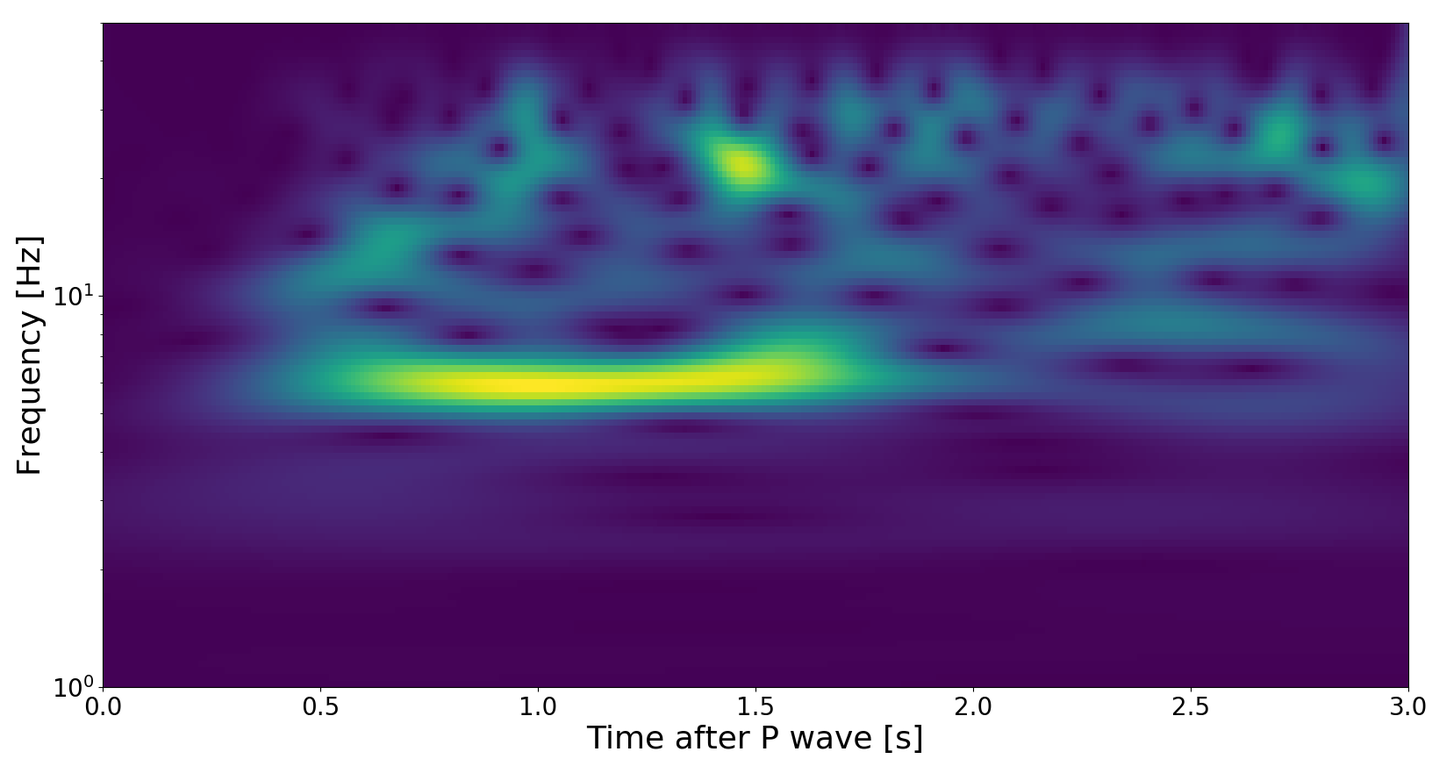
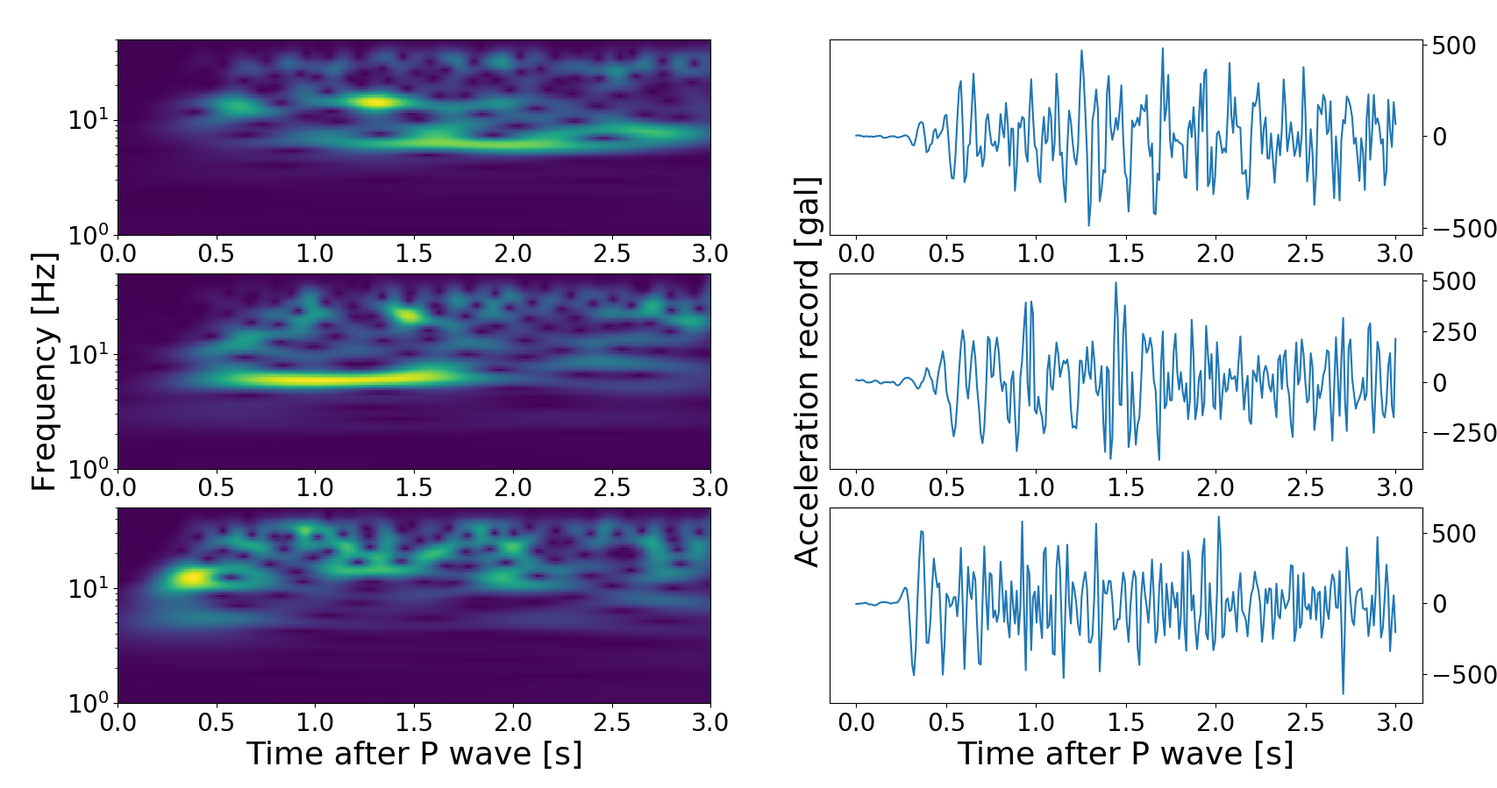
Updates from Overleaf

diff --git a/chap/chap3.tex b/chap/chap3.tex
@@ -6,10 +6,10 @@
 \indent 随着大数据时代到来，现代生产建设中设备不断电子化使得数据量呈指数增长，同时电子计算机硬件性能不断突破、计算能力不断提高,这些变化都给人工智能领域快速发展提供了优渥的土壤。例如具体到人工智能中的深度学习算法，过去受限于数据量和计算能力导致应用范围有限进展缓慢，而目前随着各领域大数据的帮助和图形处理器的广泛使用已经开始应用于各个各行各业。相比传统的统计学习方法，机器学习类方法的设计更加复杂多样，原理上提供了无需手动进行特征工程而是通过模型深层结构的学习到数据内在规律的可能性。\\
 \indent 在过去90年代中，止人工智能与地球物理学的联合交叉应用仍处于起步阶段。很多学者对于机器学习算法拾取P波初至的问题进行了深入的探索（Murat et al., 1993；D.McCormack et al., 1993;）， 但受限于当时算法和数据的局限大部分研究都处于尝试阶段。随着宽频带地震仪的普及与全球各地高密度台网的出现，台站地震数据数量和质量双双大幅提升，地球物理学领域的人工智能方法不断前进获得井喷式的发展。CNN模型在地下结构反演方向得到优秀的应用（Das et al., 1993)，而端到端训练的CNN、DnCNN模型在地震数据的噪音压制方面的优势也不断被挖掘（王钰清等， 2019），例如在数据增广插值（Wang et al., 1993)、微地震识别和地震事件检测（John et al., 2018)等地球物理与人工智能交叉应用的其他方向也有长足发展。\\
 \section{神经网络类算法}
-\indent 考虑到特征频率和特征幅值两类算法的局限性，本文首先选取了机器学习中神经网络类算法进行对传统方法进行改进。神经元是构成神经网络最基础的单元，它的结构可抽象成如下图1所示的简单数学模型 (McCulloch and Pitts, 1943），即“M-P神经元模型”。在这个模型中，一个神经元接收到来自n个其他神经元传递过来的输入信号$\mathrm{X}_{\mathrm{i}}$，这些输入信号通过带权重$\mathrm{w}_{\mathrm{i}}$的连接方式进行传递，并将神经元接收到的总输入值$\sum_{i=1}^{n} W_{i} x_{i}$将与神经元的阀值θ进行比较，然后通过“激活函数”处理以产生神经元的输出，这样就完成一个神经元的运算过程。把许多个这样的神经元按一定的层次结构连接起来，就得到各种结构的神经网络。\\
+\indent 考虑到特征频率和特征幅值两类算法的局限性，本文首先选取了机器学习中神经网络类算法进行对传统方法进行改进。神经元是构成神经网络最基础的单元，它的结构可抽象成如下图3.1所示的简单数学模型 (McCulloch and Pitts, 1943），即“M-P神经元模型”。在这个模型中，一个神经元接收到来自n个其他神经元传递过来的输入信号$\mathrm{X}_{\mathrm{i}}$，这些输入信号通过带权重$\mathrm{w}_{\mathrm{i}}$的连接方式进行传递，并将神经元接收到的总输入值$\sum_{i=1}^{n} W_{i} x_{i}$将与神经元的阀值θ进行比较，然后通过“激活函数”处理以产生神经元的输出，这样就完成一个神经元的运算过程。把许多个这样的神经元按一定的层次结构连接起来，就得到各种结构的神经网络。\\
 \begin{figure}[!h] 
 \centering 
- \includegraphics[width=0.75\linewidth]{img/mp.eps} 
+ \includegraphics[width=0.85\linewidth]{img/mp.eps} 
  \renewcommand{\figurename}{图} 
 \caption{M-P神经元模型示意图} 
 %英文标题begin 
@@ -40,7 +40,7 @@ $\mathrm{L}_{1}$、$\mathrm{L}_{2}$范数的进行正则约束以防止过拟合
 \begin{equation}
 \sigma(x)=\max (0, x)
 \end{equation}
-其中下角标C,$C^{\prime}$代表了输出层和输入层，上角标i代表第i个隐藏层。激活函数使用(3.4)式中所示的以0为分界的分段函数ReLU(Alex et al., 2012)。当此激活函数接收到前一隐层小于0的输入时输出0，而当接收到大于0的隐藏层输入时不做处理直接作为输出。NN模型以特征频率类方法的思想为基础，但区别于$\tau_{\mathrm{C}}$方法只使用垂直分量的信息，此NN神经网络的使用台站记录的全三分量信息，以期望得到不同分量联合与破裂规模的内在关系。\\
+其中下角标$C$,$C^{\prime}$代表了输出层和输入层，上角标i代表第i个隐藏层。激活函数使用(3.4)式中所示的以0为分界的分段函数ReLU(Alex et al., 2012)。当此激活函数接收到前一隐层小于0的输入时输出0，而当接收到大于0的隐藏层输入时不做处理直接作为输出。NN模型以特征频率类方法的思想为基础，但区别于$\tau_{\mathrm{C}}$方法只使用垂直分量的信息，此NN神经网络的使用台站记录的全三分量信息，以期望得到不同分量联合与破裂规模的内在关系。\\
 \indent 将3s时窗内的三分量傅里叶变换下的频谱信息并列为一维向量作为模型输入，直接将预估的震级结果设计为模型输出。整个NN模型共有7层神经网络，除去首尾的输入、输出层外共设置5个隐藏层以增强网络的非线性表达能力。根据Hinton(2012a,2012b)和Alex(2012)等人对于机器学习算法过拟合和避免网络陷入局部最优的相关研究，我们在第1和第3隐层后连接Dropout层以防止过拟合，同时加快有效训练速率。\\
 \begin{figure}[!h] 
 \centering 
@@ -59,50 +59,69 @@ $\mathrm{L}_{1}$、$\mathrm{L}_{2}$范数的进行正则约束以防止过拟合
 \subsection{CNN模型的设计}
 \indent 卷积神经网络(Convolutional Neural Networks)模型（Fukushima K,1979）是一类包含卷积计算且具有深度结构的前馈神经网络,在图像识别、语音识别等诸多领域有着非常广泛应用的深度学习模型。以常见的卷积神经网络应用场景中数据的结构和特征来看，无论是单通道的音频信息、时频信号还是图像处理问题中三通道RGB图像输入都与地震台站三分量地震波形数据有着很大的相似性。这些问题上的相似性使得CNN网络结构在处理地球物理学问题上有着得天独厚的优势，本文研究模型以图像分类中常用的LeNet-5 模型（LeCun Y et al.,1998）为基础框架，并根据Masaru(2019)等人关于地震问题特性进行SRSpec-CNN模型的相关研究 ，设计出针对三分量地震波形数据特点的震级紧急预估结构。\\
 \indent 在传统方法和上节中所提到的NN方法都没有利用到台站信息时序的特点。例如以$\mathbf{\tau}_{\mathrm{c}}$为核心的震级预估算法是直接利用截断时间内频率域特点，并没有利用到台站记录数据中所拥有的P波时间结构特征。3.2.1节所描述的NN方法也只是利用神经网络算法所拥有的强大表达能力，从频率域数据中挖掘出更多描述能量的特征用以进行震级预估。而本章节所设计的CNN震级预估模型中输入信息为如图3.3所示的拥有时间结构小波信号，这就提供了利用P波时间结构特点的可能性。\\
-\indent 小波变换是20世纪80年代由石油信号处理工程师J.Morlet提出并发展起来的一种变换分析的新方法（J.Morlet et al., 1983，1984，1985）。小波变换作为时频变换方法，在短时傅里叶变化（Short-time Fourier Transform,STFT）的基础上更多体现出能良好时频局部化特性。在此之前的时频分析领域最为主流的短时傅里叶变换，主体思想为将整个时间域过程分解成在时间上等长的多个小过程分段进行傅里叶变换，并假设这些短过程间的信号是平稳并且相似的。但真实世界中的很多信号都是非平稳的，例如地震台站所记录到的地震波信号
-此拥有不同时间的不同特征。方法提出以来
-具更是有可以同时在时间域和频率域分析的特点，在地震数据处理中有着重
-要的应用，近年来也已经被应用于震相拾取工作中（Chakraborty A, Okaya D. ,1995；
-刘希强, 周蕙兰, 沈萍,等, 2000）。
+\indent 小波变换是20世纪80年代由石油信号处理工程师J.Morlet提出并发展起来的一种变换分析的新方法（J.Morlet et al., 1983，1984，1985）。小波变换作为时频变换方法，在短时傅里叶变化（Short-time Fourier Transform,STFT）的基础上更多体现出能良好时频局部化特性。在此之前的时频分析领域最为主流的短时傅里叶变换，主体思想是将整个时间域过程分解成在时间上等长的多个小过程分段进行傅里叶变换，这些操作的基础假设为这些短过程间的信号是平稳并且相似的。短时傅里叶变换面临着离散出的小过程时窗过窄则频率分辨率不足，时窗过宽则时间分辨率不足的窘境，它不能随着所分析的信号是高频或低频信息的而相应变换。\\
+\indent 但事实上真实世界中的很多信号都是非平稳的，例如地震台站所记录到的地震波信号就在时序上变化剧烈，且在不同时段内拥有不同信号结构。在本问题的研究中希望使用100HZ台站在P波到时后的3秒数据进行震级预估，若使用简单的短时傅里叶变换会导致时间和频率分辨率都不足够。以上所描述的特征使得短时傅里叶变换不适用于处理地震信号，而为地球物理学领域而首次提出的小波方法，具有较好时频局部化特性良好的适配于地震数据的时频分析需求（Kristekov et al., 2006，2009）。\\
+\indent 小波变换可以分为连续小波变换（CWT）与离散小波变换（DWT）。因两种变换的特点不同，在实际应用中离散小波变换常用于降噪与数据压缩，而连续小波变换则更适合于信号特征的提取。故选取连续小波变换对台站记录的时域信号进行预处理（Kristekov et al., 2006）。在连续小波变换中，其自适应性体现在移动带的通滤波器的频率域窗口随着滤波器中心频率的增加而扩大。一个实信号s(t)的连续小波变换被定义为一个如（3.5）式所示卷积运算：\\
 \begin{equation}
-C W T_{(a, b)}\{s(t)\}=|a|^{-1 / 2} \int_{-\infty}^{\infty} s(t) \psi^{*}(t-b) / a d t
+C W T_{(a, b)}\{s(t)\}=\int_{-\infty}^{\infty} s(t) \frac{1}{\sqrt{a}} \Psi\left(\frac{t-b}{a}\right) d t
 \end{equation}
-
-
+其中t为时间，窗口函数$\psi_{a, b}(t)$为依赖参数a,b的小波基函数。而参数 a 和 b 分别为小波变换的伸缩因子和平移因子。考虑到平移因子和伸缩因子都是连续取值的，所以称对应的小波基函数族$\left\{\psi_{a, b}(t)\right\}$为连续小波基族。特殊的取Morlet小波基$\psi(t)=\pi^{-1 / 4} \exp \left(i \omega_{0} t\right) \exp \left(-t^{2} / 2\right)$。在此设置下，实信号s(t)的时频表示（TFR）被定义为如下的（3.6）式：\
+\begin{equation}
+W(t, f)=C W T_{(a, b)}\{s(t)\} ; \quad a=\omega_{0} / 2 \pi f,\quad  b=\tau
+\end{equation}
+\indent 根据Kristekov（2006）对于应用于地震数据的连续小波变换，将全数据集进行了小波变换预处理。将原本NN模型时间域的频率表示输入变为如3.3图左侧三子图所示的时频表示。每一个单独台站记录都转换为100*300*3的多维矩阵，可以看出时间域中没有直观区别的三分量记录在小波域上出现了明显的时序结构。这就使得在不使用更多台站、更多地震事件的情况下完成了数据增广和解析度提升，利用到了传统方法没用考虑到的时序结构特征用以预估震级大小。\\
 \begin{figure}[h] 
 \centering 
- \includegraphics[width=0.99\linewidth]{img/wavelet.jpg} 
+ \includegraphics[width=1.0\linewidth]{img/wavelet.jpg} 
  \renewcommand{\figurename}{图} 
-\caption{CNN深度神经网络输入信号：P波初到后三秒垂向小波时频谱图} 
+\caption{CNN深度神经网络输入信号：P波初到后3秒时间的台站三分量时域图与小波时频谱图} 
 %英文标题begin 
 \addtocounter{figure}{-1} \vspace{-5pt} 
 %\SetEnglishCaption 
 \renewcommand{\figurename}{Fig} 
-\caption{CNN deep neural network input signal: spectrum of the vertical wavelet when the P wave arrives for three seconds} 
+\caption{Station three-component time domain diagram and wavelet time spectrum diagram of 3 seconds after the first arrival of P wave} 
 \renewcommand{\figurename}{图} 
 %英文标题end 
 \label{fig:network-device-influence.png} 
 \end{figure}
-\indent CNN模型结构如图3所示，整体框架为CNN卷积神经网络。与NN模型相同，使用ReLU作为激活函数，使用全三分量信息，并仍以预估的震级结果作为模型输出。不同的是，CNN模型将3s时窗内的加速度记录处理为三维张量(tensor)作为模型输入，全网络共设置8层卷积层且无池化层设置。卷积层采取小卷积核进行卷积计算，同时采用2个步长的卷积时窗移动以帮助卷积核降采样。卷积隐藏层的运算方式见(10)式。在第8层卷积层后，将所有特征重排列与台站和震中经纬深度信息一同并列后，进行全连接运算输出。考虑到深度学习卓越的表达能力，$\mathbf{\tau}_{\mathrm{c}}$方法中傅里叶变换的预处理是很容易被卷积神经网络完成的，并且还会有更多其他的特征被卷积核提取。\\
-\indent 考虑到模型输入的信息量和CNN网络的表达能力，理论上此模型至少可达到$\mathbf{\tau}_{\mathrm{c}}$和$P_{d}$方法的效果。如图3所示，此模型与NN模型相比还引入了台站和震源的位置信息。并且不同于$P_{d}$方法中相对量震中距离的使用，引入台站和震源的坐标信息还在一定程度上可以帮助模型完成区域断层信息、地球介质模型记录，使模型作为区域震级预估方法有更出色的表现。此深度学习模型对原始输入信号进行逐层加工，从而把初始的、与输出目标之间联系不太密切的输入表示，转化成与输出联系更为密切的新表示方式，使得原本难以完成的任务成为可能（对比于NN模型频谱信息输入和最后输出间的映射）。\\
-\indent CNN模型端到端的模型设置导致其训练难度更大，也意味着就需要更多的训练数据，由于目前数据量不足暂时还未对CNN模型完成训练。\\
+\indent 以CNN模型为核心的震级预估模块工作流程如图3.4所示。因设计的只为震级预估模块，故暂时不考虑确认地震事件和地震事件定位模块。假定在已确认疑似地震并通过多台站定位出地震大致位置后。选取距离震中100Km以内全部台站记录，截取P波初到后3s内数据进行小波变换作为CNN模型输入进行单台站震级预估。最后使用多台站震级预估的算术平均结果作为整体模块震级预估的结果。\\
+\indent CNN模型的数据流和网络结构如图3.5所示，整体框架为卷积、池化间隔出现的神经网络。与3.2.1中NN模型相同，使用（3.4）式ReLU作为激活函数。输入输出端保持大体一致，使用台站全三分量信息小波变换后作为模型输入并仍以预估的震级结果作为模型输出。通过测试并参考John（2018）与Nakano（2019）等人关于卷积层卷积核大小的研究，决定在本问题中采取5*5的小卷积核进行卷积计算，同时采用2*2的步长移动的卷积时窗移动以帮助卷积核降采样。CNN模型卷积层的运算方式如(3.7)式所示，其中l代表隐藏层角标，j代表通道数，i代表在特征图（feature map）上的坐标。考虑到深度学习卓越的表达能力，$\mathbf{\tau}_{\mathrm{c}}$方法中傅里叶变换的预处理是很容易被卷积神经网络完成的，并且还会有更多例如不同分量间的关联的其他特征被卷积核提取以增加预估的准确性。\\
 \begin{figure}[h] 
 \centering 
- \includegraphics[width=0.99\linewidth]{img/CNN-paper.png} 
+ \includegraphics[width=1.0\linewidth]{img/Flow.jpg} 
  \renewcommand{\figurename}{图} 
-\caption{CNN深度神经网络结构示意图} 
+\caption{震级预估模块（CNN模型）工作流程图（以发生在日本地区39.32N,141.14E的4.6$\mathbf{M}_{\mathrm{w}}$地震为例）：第一步确认发生疑似地震，选取距震中100Km内的台站。第二步截取P波初到后3秒内三分量数据。第三步进行Morlet小波变换。第四步将台站时频表示输入到CNN模型中得到预估震级。} 
 %英文标题begin 
 \addtocounter{figure}{-1} \vspace{-5pt} 
 %\SetEnglishCaption 
 \renewcommand{\figurename}{Fig} 
-\caption{Schematic diagram of CNN deep neural network structure} 
+\caption{Workflow chart of the magnitude estimation module (CNN model) (take the 4.6$\mathbf{M}_{\mathrm{w}}$ earthquake in 39.32N, 141.14E in Japan as an example): The first step is to confirm the occurrence of a suspected earthquake, and select a station within 100Km from the epicenter. The second step intercepts the three-component data within 3 seconds after the first arrival of the P wave. The third step is to perform Morlet wavelet transform. The fourth step is to input the time-frequency representation of the station into the CNN model to obtain the estimated magnitude.} 
+\renewcommand{\figurename}{图} 
+%英文标题end 
+\label{fig:network-device-influence.png} 
+\end{figure}
+\begin{equation}
+\mathbf{Z}_{j}^{\ell}=\sigma\left(\sum_{i \in M_{j}} \mathbf{Z}_{i}^{\ell-1} * \mathbf{k}_{i j}^{\ell}+b_{j}^{\ell}\right)
+\end{equation}
+\indent 考虑到模型输入的信息量和CNN网络的表达能力，理论上此模型至少可达到$\mathbf{\tau}_{\mathrm{c}}$和$P_{d}$方法的效果。并且不同于$P_{d}$方法中相对量震中距离的使用，引入台站记录的三分量间的信息一定程度上可以帮助模型完成区域断层信息、地球介质模型记录，使模型作为区域震级预估方法有更出色的表现。此深度学习模型对小波变换输入信号进行逐层加工，从而把初始的、与输出目标之间联系不太密切的输入表示，转化成与输出联系更为密切的新表示方式，使得原本难以完成的任务成为可能（对比于NN模型频谱信息输入和最后输出间的映射）。\\
+\indent 因为本CNN模型震级预估模型的输入信息为三分量小波变换时频信息，这直接导致数据量整体扩大了2个数量级。造成了训练过程中对计算机缓存和显卡缓存的很高性能要求，以至于在本文研究中并不能够完全使用NN模型所使用的全数据集，大约使用了全数据集的30\%作为CNN震级预估模型的全数据集。\\
+\begin{figure}[!h] 
+\centering 
+ \includegraphics[width=0.99\linewidth]{img/CNN-paper.jpg}
+ \renewcommand{\figurename}{图} 
+\caption{CNN模型的数据流和网络结构。每层结构中的图像尺寸用长方体示意，颜色中紫色代表卷积层的输出，粉色代表池化层的输出，而红色示意了卷积核的大小。图中相应的数字代表了每层网络中图像宽度、高度和通道数的矩阵大小。Conv，Pool和FC分别代表卷积层，池化层和全连接层。} 
+%英文标题begin 
+\addtocounter{figure}{-1} \vspace{-5pt} 
+%\SetEnglishCaption 
+\renewcommand{\figurename}{Fig} 
+\caption{The data flow and network structure of the CNN model. The image size in each layer structure is indicated by a rectangular parallelepiped, in which purple represents the output of the convolution layer, pink represents the output of the pooled layer, and red represents the size of the convolution kernel. The corresponding numbers in the figure represent the matrix size of the image width, height and number of channels in each layer of the network. Conv, Pool and FC represent the convolutional layer, the pooled layer and the fully connected layer, respectively.} 
 \renewcommand{\figurename}{图} 
 %英文标题end 
 \label{fig:network-device-influence.png} 
 \end{figure}
 \section{模型评估与选择}
  \indent 通常上我们把机器学习器在训练集上的误差称为训练误差（training error）或者经验误差（generalization error），在新样本上的误差称为泛化误差（generalization error）。原则上人们希望最终得到一个泛化误差小的模型，也就是模型在面对没有出现在训练集中的新数据能有优异的预测性。但事实上我们并不知道新的样本是什么样的，具体到本问题中对于还未发生的地震我们并不知道其发震断层的模型，也不清楚震源附近的介质模型，实际上能做的是努力使训练误差最小化。在很多情况下，我们都可以使模型学习到一个在训练集上表现很好，经验误差很小的机器学习器。甚至对于整个训练数据集没有错误分类达到100\%准确率或者完全没有预测误差的学习器，但这样的机器学习器在绝大多数的情况下并没有好的泛化能力。\\
- \indent 机器学习核心的训练目标是在新样本上表现卓越。为了达到这个目的，我们要使模型从训练数据中尽可能的学习到问题"内在规律"，这样才能使模型在遇到实时地震台站数据记录时做出正确判别。当学习器把训练样本学得“太好”时，很可能已经把训练样本自身的一些特点当作了所有潜在样本都会具有的一般性质，这就很会导致泛化性能下降。此现象在机器学习中称之为"过拟合"（overfitting），与之相对应“欠拟合”（underfitting），这是指对训练样本的一般性质尚未学习好。
+ \indent 机器学习核心的训练目标是在新样本上表现卓越。为了达到这个目的，我们要使模型从训练数据中尽可能的学习到问题"内在规律"，这样才能使模型在遇到实时地震台站数据记录时做出正确判别。当学习器把训练样本学得“太好”时，很可能已经把训练样本自身的一些特点当作了所有潜在样本都会具有的一般性质，这就很会导致泛化性能下降。此现象在机器学习中称之为"过拟合"（overfitting），与之相对应“欠拟合”（underfitting），这是指对训练样本的一般性质尚未学习好。\\
  
 %  直观展示了过拟合和欠拟合的区别。
  
@@ -150,4 +169,4 @@ C W T_{(a, b)}\{s(t)\}=|a|^{-1 / 2} \int_{-\infty}^{\infty} s(t) \psi^{*}(t-b) /
 \indent 若只确定模型大方向的结构，而并未确定例如CNN模型中卷积核大小、池化层池化核移动方式等。在这些具体参数并没固定的情况下，我们需要对模型结构和参数同时进行选择。以上的问题导致了若只使用“训练-测试”的数据划分方式难以对模型泛化能力进行评估。在本文研究中我们结合了朴素留出法和交叉验证法的特点，将所有的地震记录划分为训练集、交叉验证集（cross validation set）和测试集三部分。我们随机将全台站地震记录集的70\%数据划分为训练集，10\%划分为交叉检验集，20\%划分为测试集。区别于以上两种传统模型的数据划分方式，增添了交叉验证集。\\
 \indent 考虑到模型训练的时间和效率的限制，不同于交叉检验法的多组模型训练，本次研究采取朴素留出思想只训练出一组模型。使用交叉验证集取代原测试集的作用，结合训练集的数据反复进行模型参数训练，继而对模型训练成果进行评估，最终在完全没有参与过使用的测试集上进行最终的模型选择。\\
 \indent 在数据集划分方面更多需要注意的是，由于同一地震事件会有多个台站记录，这些不同台站记录到同一个地震数据间极其相似。这就导致了在划分数据集时不能将这些同属于一个地震事件的单条数据划分到不同数据集合中。否则等同于不同集合之间发生了信息泄露，使得交叉验证集和测试集失去了其存在的意义，所显示出来的泛化能力都是虚假的。\\
-\indent 在以一个地震事件为“最小”数据单位的要求下,同时考虑到之前使训练集和测试集分布保持一致性和互斥性的情况下爱,就暴露出了数据总体上数据分布不均和数据量不够的问题，在接下来的第四章中会详细介绍优化和解决方案。\\
+\indent 在以一个地震事件为“最小”数据单位的要求下,同时考虑到之前使训练集和测试集分布保持一致性和互斥性的情况下,就暴露出了数据总体上数据分布不均和数据量不够的问题。并且在3.2.2节中所描述的CNN模型结构因为计算机性能的客观原因，还并不能支持全数据集的使用，这又加重了CNN模型训练的难度。在接下来的第4节中会详细介绍优化和解决方案。\\

diff --git a/chap/chap4.tex b/chap/chap4.tex
@@ -1,9 +1,9 @@
-\chapter{机器学习方法预估震级效果评估与讨论 }
+\chapter{日本地区机器学习方法预估震级效果}
 \section{数据分析与预处理}
 \indent 利用第二、三章所描述的方法，本文搭建并实现了$\tau_{c}$方法和机器学习类模型进行效果检验。考虑到震级紧急预估的应用场景和所需要的基础设施需求，我们将研究区域定位日本主岛区域附近。考虑到地震紧急预估的时效性，选取地震事件距离台站为1个相对经纬距离（约100km）内的记录。原始全数据集使用了日本KIK和KNET两台站网从2015至2017年所记录到的所有大于3级且震源靠近日本岛主体的地震记录，除此之外并无经过其他任何的主动事件挑选，事件分布如下图4.1所示。\\
 \begin{figure}[!h] 
 \centering 
- \includegraphics[width=0.8\linewidth]{img/basemap.jpg} 
+ \includegraphics[width=0.9\linewidth]{img/basemap.jpg} 
  \renewcommand{\figurename}{图} 
 \caption{全数据集地震事件} 
 %英文标题begin 
@@ -53,7 +53,8 @@
 \end{figure}
 
 
-\section{NN方法与传统方法的效果评估与比较}
+\section{机器学习类模型与传统模型的比较}
+\subsection{NN震级预估模型的效果评估与比较}
 \indent 训练曲线如图4.4所示，图中两条图线分别代表了训练集和交叉验证集的均方根误差（RMSE）随着训练步数的变化。NN模型在经过大约15000个步训练步长后，达到此模型结构下的最佳权值状态。超过15000个训练步长后后虽然训练数据集级上模型表现持续变好，但在交叉检验数据集上RMSE停止减小并开始增大，说明模型已经进入第3章所描述的过拟合状态，此时再增加训练轮数只会让模型更加过拟合拥有更差的。故当完成15000个训练步长时触发提前停止条件(Early Stopping)，在此训练步数上停止训练并存储此时的模型最佳权值。\\
 \begin{figure}[!h] 
 \centering 
@@ -109,7 +110,7 @@ The horizontal and vertical coordinates are the same as in Figure 4.4.
 \indent 图4.7两子图展示了NN方法和K方法对于不同震级，只使用单一垂向台站信息的情况下进行震级预估的误差分布。整体而言在各个震级上K方法预估的表现更为稳定但是误差均大于NN方法。各个震级单台站平均误差中，NN方法最大误差出现在7级以上地震约为1.6，K方法最小误差出现在6级地震约为1.1。\\
 \indent K方法中单台站的预测误差大小随着震级增加而略微减小。这种现象可能由于图4.8中所示的地震事件与台站记录数量分布随震级增加每个事件被记录到的台站数越多的特征。这种特征使得大型地震相对较小地震有更多数据记录，也就意味着K方法中使用$\left(\tau_{\mathrm{c}}\right)$平均值做震级预估时的特征时是更为无偏的估计，进而在以地震事件为视角做$\left(\tau_{\mathrm{c}}\right)$与$\mathbf{M}_{\mathbf{w}}$线性回归时得到参数能更好应用于较大型地震的震级预估。注意到图4.8考虑因6级以上地震发生频率低、数据量较少故并没有进行展示。\\
 \indent 图4.7（a）为NN方法的误差分布分为蓝色和红色两个区域。中间的蓝色区域内单台站预估出的震级误差稳定，而两侧红色区域误差随震级有较大的变化。结合4.7（b）结果佐证了在蓝色区域内物理本质上较为容易进行震级预估，一方面4级至6级地震的被台站记录数量足够多。同时地震破裂过程时长适中，能在较好被P波初到后3s的时长台站数据估计出。另一方面从考虑由于NN方法为机器学习方法，其本身是解释能力很强的方法，但在两侧红色区域仍不能轻易得到好的预估结果。这从反面一定程度上说明了在两侧红色区域存在客观问题使得震级预估问题本身不易实现。对于左侧红色区域NN模型的表现与K模型相似，可以认为因为数据量导致的震级预估不准确对于两种方法都存在。而右端红色高误差区域，可能是因为高能量地震的破裂情况难以被P波初到后3s的数据解释。\\
-\begin{figure}[h] 
+\begin{figure}[!h] 
 \centering 
 \includegraphics[width=\linewidth]{img/eb.eps} 
 \renewcommand{\figurename}{图} 
@@ -125,7 +126,7 @@ The horizontal and vertical coordinates are the same as in Figure 4.4.
 %英文标题end 
 \label{fig:network-device-influence.png} 
 \end{figure}
-\begin{figure}[h] 
+\begin{figure}[!h] 
 \centering 
 \includegraphics[width=\linewidth]{img/M-N.png} 
 \renewcommand{\figurename}{图} 
@@ -141,7 +142,7 @@ The horizontal and vertical coordinates are the same as in Figure 4.4.
 \end{figure}
 
 \indent 图4.9展示了K方法与NN方法以地震事件为视角震级预估的稳定性情况，图4的两个子图是在设置不同最低截至震级下预估误差方差的分布。可以看出在两种情形下，NN模型预估震级误差的总方差都更小展现出稳定的表现。并且从震级预估的方差分布特点来看，NN模型在两种最低截至震级情形下都展现出左移且高峰度的特点。综合来看NN模型的稳定性优于Kanamori(2008)的$\tau_{\mathrm{c}}$方法。\\
-\begin{figure}[h] 
+\begin{figure}[!h] 
 \centering 
  \includegraphics[width=\linewidth]{img/9.eps} 
  \renewcommand{\figurename}{图} 
@@ -161,4 +162,4 @@ magnitude 4; \\
 %英文标题end 
 \label{fig:network-device-influence.png} 
 \end{figure}
-
+\subsection{CNN震级预估模型的效果评估与比较}

diff --git a/chap/chap2.tex b/chap/chap2.tex
@@ -1,5 +1,5 @@
 
-\chapter{目前存在的震级预估方法简介}
+\chapter{传统震级预估方法简介}
 
 \section{预估震级的可能性}
 
@@ -10,7 +10,7 @@
 \begin{equation}
 \tau_{\mathrm{i}}^{\mathrm{p}}=2 \pi \sqrt{\frac{\mathrm{X}_{\mathrm{i}}}{\mathrm{D}_{\mathrm{i}}}}
 \end{equation}
-式中，$\mathrm{X}_{\mathrm{i}}=\alpha \mathrm{X}_{\mathrm{i}-1}+\mathrm{x}_{\mathrm{i}}^{2}, \mathrm{D}_{\mathrm{i}}=\alpha \mathrm{D}_{\mathrm{i}-1}+\left(\frac{\mathrm{dx}}{\mathrm{dt}}\right)_{\mathrm{i}}^{2}, \tau_{i}^{p}$是i秒时测定的特征周期，$\mathrm{X}_{\mathrm{i}}$是记录的地面运动速度值，$\mathrm{X}_{\mathrm{i}}$是平滑后地面运动速度的平方值，α为接近的1的平滑系数 (取值多为0.999)。$\tau_{p}^{\max}$台站P波触发后的若干秒后，该迭代序列中的最大值。美国著名的ElamrS系统就采取$\tau_{p}^{\max }$法进行的震级预估 (Allen et al, 1996)。ElamrS系统实践表明，$\tau_{p}^{\max}$台站数量要求较高，多台站联合预估结果的误差在台站数量较少的情况下与其数量近似呈现线性关系，5个台站平均误差约为±0.70，10个台站误差下降至±0.35 (Kanamori et al., 2005）。$\tau_{p}^{\max}$法的准确和稳定性同时还受台站记录的采样率影响，与数据预处理方式密切相关，选用不同滤波器或滤波时窗都会对特征周期的计算结果产生较大影响。例如当选用较大的高频截止频率对记录低通滤波处理后，特征周期计算结果会明显偏小。Allen (2003, 2007)在后续的一系列的工作中对$\tau_{p}^{\max}$法进行可改进，在预估震级前给出预分类假设。在不同的预分类情况下使用不同的滤波方式，以得到该情形相应的震级并基于多种情景假设共同预估出震级。\\
+式中，$\mathrm{X}_{\mathrm{i}}=\alpha \mathrm{X}_{\mathrm{i}-1}+\mathrm{x}_{\mathrm{i}}^{2}, \mathrm{D}_{\mathrm{i}}=\alpha \mathrm{D}_{\mathrm{i}-1}+\left(\frac{\mathrm{dx}}{\mathrm{dt}}\right)_{\mathrm{i}}^{2}, \tau_{i}^{p}$是i秒时测定的特征周期，$\mathrm{X}_{\mathrm{i}}$是记录的地面运动速度值，$\mathrm{X}_{\mathrm{i}}$是平滑后地面运动速度的平方值，$\alpha$为接近的1的平滑系数 (取值多为0.999)。$\tau_{p}^{\max}$台站P波触发后的若干秒后，该迭代序列中的最大值。美国著名的ElamrS系统就采取$\tau_{p}^{\max }$法进行的震级预估 (Allen et al, 1996)。ElamrS系统实践表明，$\tau_{p}^{\max}$台站数量要求较高，多台站联合预估结果的误差在台站数量较少的情况下与其数量近似呈现线性关系，5个台站平均误差约为±0.70，10个台站误差下降至±0.35 (Kanamori et al., 2005）。$\tau_{p}^{\max}$法的准确和稳定性同时还受台站记录的采样率影响，与数据预处理方式密切相关，选用不同滤波器或滤波时窗都会对特征周期的计算结果产生较大影响。例如当选用较大的高频截止频率对记录低通滤波处理后，特征周期计算结果会明显偏小。Allen (2003, 2007)在后续的一系列的工作中对$\tau_{p}^{\max}$法进行可改进，在预估震级前给出预分类假设。在不同的预分类情况下使用不同的滤波方式，以得到该情形相应的震级并基于多种情景假设共同预估出震级。\\
 \indent Kanamori(2005)随后提出了一种对$\tau_{p}^{\max}$改进的捕捉特征周期计算方法，称为$\tau_{\mathrm{c}}$方法，计算方法如下：\\
 \begin{equation}
 \mathrm{r}=\frac{\int_{0}^{\tau_{0}} \dot{\mathrm{u}}^{2}(\mathrm{t}) \mathrm{dt}}{\int_{0}^{\tau_{0}} \mathrm{u}^{2}(\mathrm{t}) \mathrm{dt}}
@@ -18,7 +18,7 @@
 \begin{equation}
 \tau_{\mathrm{c}}=\frac{2 \pi}{\sqrt{\mathrm{r}}}
 \end{equation}
-其中u和$\dot{u}$̇是地震台站垂直分量记录的地表位移和速度，所计算的系数r是对特征频率平方的一种估计。式中积分区间为$\left[0, \tau_{0}\right]$，代表台站触发P波记录后$\tau_{0}$秒内的记录。研究表明，在大多数情况下$\tau_{0}$设置为3s即可(Wu and Kanamori, 2005a, 2005b, 2007)。使用Parseval定理可以将(2)和(3)式改写为：
+其中u和$\dot{u}$̇是地震台站垂直分量记录的地表位移和速度，所计算的系数r是对特征频率平方的一种估计。式中积分区间为$\left[0, \tau_{0}\right]$，代表台站触发P波记录后$\tau_{0}$秒内的记录。研究表明，在大多数情况下$\tau_{0}$设置为3s即可(Wu and Kanamori, 2005a, 2005b, 2007)。使用Parseval定理可以将(2.2)和(2.3)式改写为：
 \begin{figure}[!h] 
 \centering 
  \includegraphics[width=0.7\linewidth]{img/kanamori2008_taoc.jpg} 

diff --git a/chap/thanks.tex b/chap/thanks.tex
@@ -3,9 +3,3 @@
 % Public domain.
 
 \chapter{致谢}
-
-\indent 感谢张海明老师两年来对我的教诲和关怀。从大三伊始，我便参加了张海明老师的组会。在这两年以来，张老师在学习和研究中给予了我诸多指导，让我能够有机会了解和接触到学术研究工作。无论是在本文的研究中，还是在本科生科研的研究中，张老师都花费了巨大的心血来指导我的工作。在学术上，张老师秉承严谨的作风。对于研究，无论是在实质内容上，还是展示的形式，张老师对于我们都是严格要求。因此，虽然现在的学术研究水平仍然非常有限，但是在张老师的严格要求之下，也能看到自己的进步。除此之外，张老师对于自我价值的坚持，和对于学术最本质的热爱也让人敬佩不已。\\
-\indent 此外，还要感谢研究小组的冯禧师兄，和钱峰师兄。在和他们讨论的过程中给我很多思路和灵感，同时在该论文完成的过程中，两位师兄也给予了诸多的建议。同时，师兄们对于学术和知识的追求以及对于研究工作认真、刻苦的精神，时刻激励着我。\\
-\indent 感谢本科期间所有的老师。四年来是你们让我从一个懵懂的少年成长为了一位具备一定的基础知识，具有初步科研能力的成熟大学生。在燕园4年的课堂上，我不仅得到了知识的提升，更是能力，认知，思想的进步。\\
-\indent 感谢我的室友卢思奇，姜鹏飞，龚旭日。大学四年，无论是在学习上，还是在生活中，都受到了他们的诸多关照。感谢向直柳大学四年的陪伴，在我困惑迷茫之时给予了我很多安慰。感谢各位同学，朋友在大学四年的陪伴以及给予我的帮助。\\
-\indent 最后要感谢我的父母和家人。是你们对我全力的理解和支持让我能够全力以赴在这求学之旅上前行。
